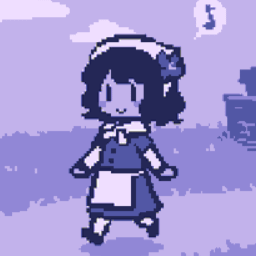
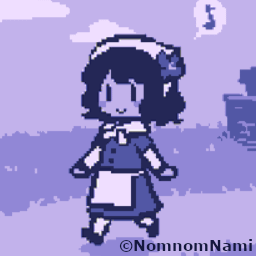
update

Changed region(s): [[0.4688, 0.9375, 1.0, 1.0]]

diff --git a/credits.html b/credits.html
@@ -165,6 +165,9 @@
                 </br>
                 <p>- La photo du crystal pourpre sur la page d'accueil est créditée à <strong>Krystal Ng</strong> de <strong>Unsplash</strong>.</p>
                 </br>
+              </br>
+              <p>- L'image utilisée pour représenter le bot Discord Louise provient du superbe jeu <strong>Bad End Theater</strong>, créé par <strong>NomnomNami</strong>.</p>
+              </br>
                 <p>Je demande à mes visiteurs de respecter ces droits d'auteur tout autant que moi.</p>
                 </br></br>
             </span>
